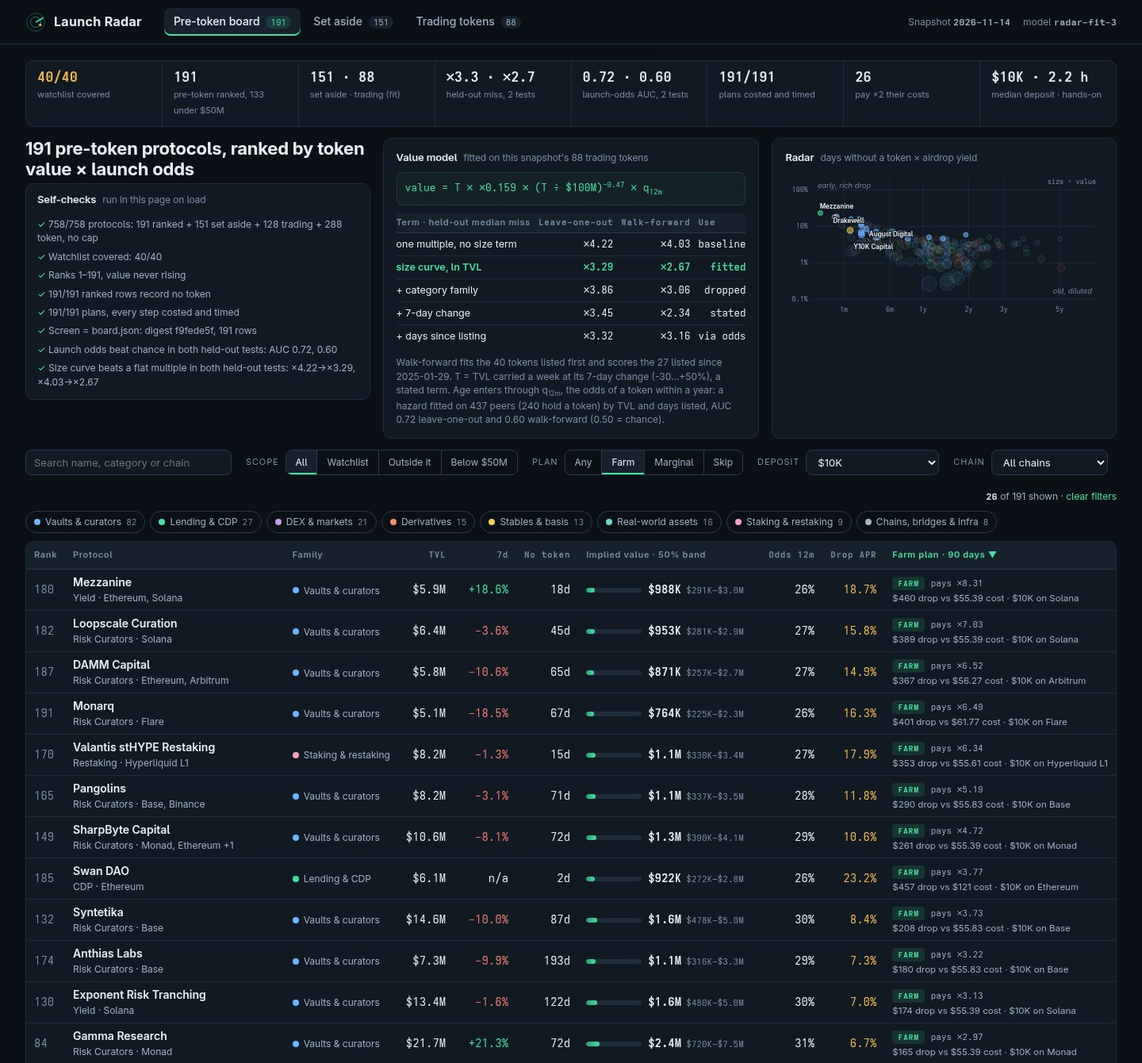
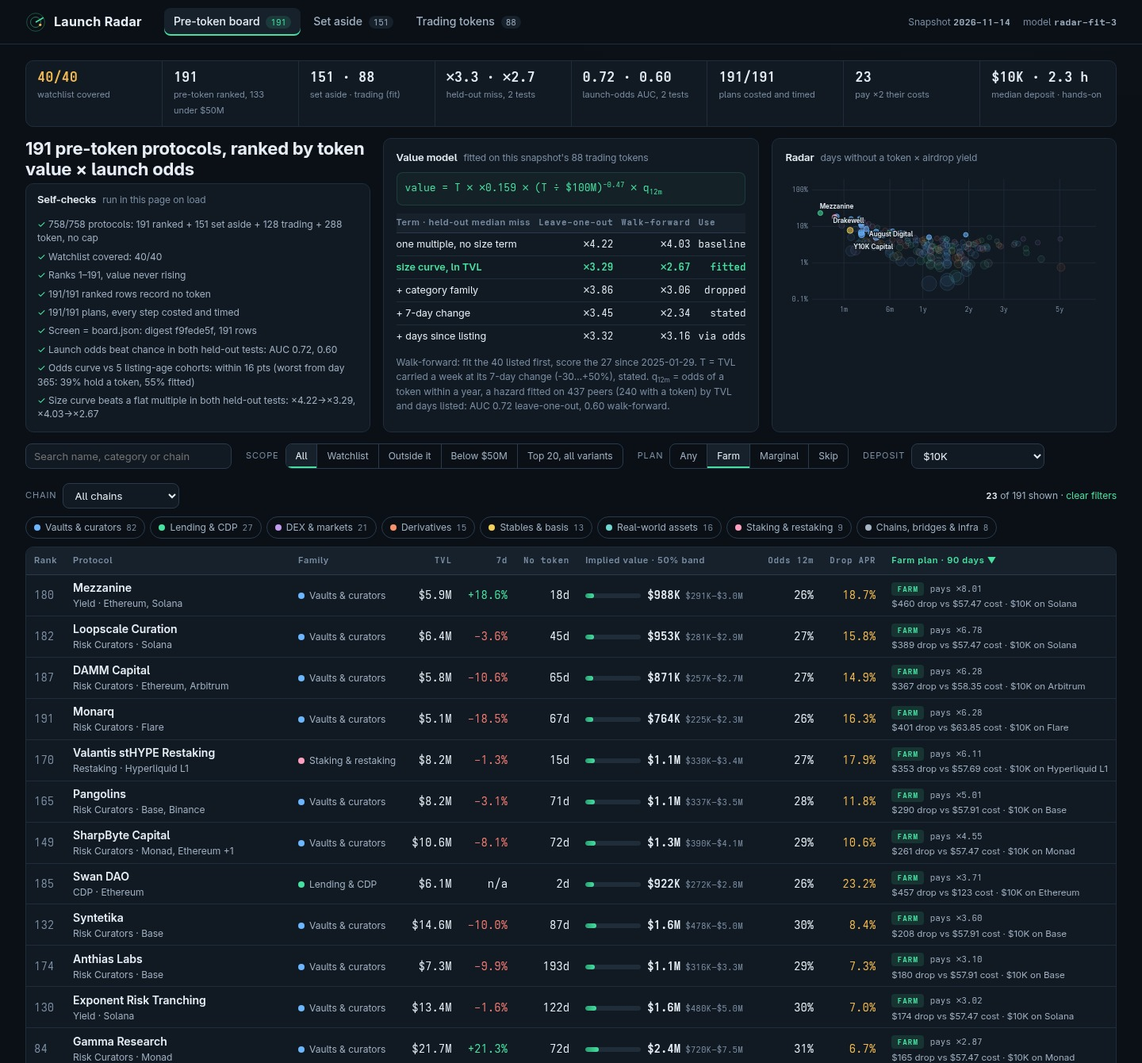
Cohort check of the launch-odds curve, rank crossing under three declared variants (and a top-20-in-all filter), 5%/20% drop-share scenarios in every decision step, round-trip unwind per farm type; tables.json written by hand; source compacted

diff --git a/dashboard/app.js b/dashboard/app.js
@@ -1,13 +1,11 @@
-/* Launch Radar. Guide for a reader of this source (dossier order: app.js, index.html, model.js, style.css):
- *   model.js calibrate(), termTests()  value curve fitted on the snapshot's trading tokens; every term tested
- *                         held-out twice (leave-one-out, walk-forward); the band from held-out misses
- *   model.js value()      implied value of one pre-token protocol, every factor kept for the detail view
- *   model.js productOf()  the watchlist rule that sets wrapped, bridged, staked and exchange products aside
- *   model.js farmPlan()   decision step plus six costed, timed steps; deposit sized to cover costs x2
+/* Launch Radar. Guide to this source (dossier order: app.js, index.html, model.js, style.css):
+ *   model.js calibrate(), termTests()  value curve fitted on the trading tokens; each term tested held-out twice
+ *   model.js launchOdds()  12-month launch odds: a hazard fitted on peers by TVL and age, AUC and cohort checks
+ *   model.js value()       value if launched x launch odds, every factor kept for the detail view
+ *   model.js productOf()   the watchlist rule that sets wrapped, bridged, staked and exchange products aside
+ *   model.js farmPlan()    decision step, six costed and timed steps, deposit sized or set by the reader
  *   model.js build(), boardRows(), digest()  what main.ts writes to board.json; the page recomputes it
- *   app.js CHECKS, board(), detail(), aside(), trading(), filtered()  cover checks, views, sort, filters */
-/* The page reads data.js, runs RadarModel.build (model.js) and draws three views. State lives in the URL
- * hash (view, q, fam, chain, scope, verdict, sort, dir, p), so every view can be linked. */
+ *   app.js CHECKS, board(), detail(), aside(), trading()  cover checks and views; state in the URL hash */
 (function () {
   'use strict';
   const R = window.RadarModel, S = window.SNAPSHOT, app = document.getElementById('app');
@@ -25,7 +23,6 @@
   const verdictTag = (v) => `<span class="verdict v-${v}">${v}</span>`;
   const maxImplied = rows[0].v.implied;
 
-  /* ---------- state in the hash ---------- */
   const DEF = { view: 'board', q: '', fam: '', chain: '', scope: 'all', verdict: '', sort: 'rank', dir: 'asc', p: '', dep: '' };
   function readHash() {
     const st = Object.assign({}, DEF);
@@ -35,7 +32,7 @@
       if (i > 0 && own(DEF, k)) try { st[k] = decodeURIComponent(kv.slice(i + 1)); } catch (e) { /* keep the default */ }
     });
     // Unknown values fall back to the defaults, so a hand-typed link never breaks the page.
-    const ok = { view: 'board aside trading', scope: 'all watch early outside', verdict: ' farm marginal skip', dir: 'asc desc', dep: ' 1000 5000 10000 25000' };
+    const ok = { view: 'board aside trading', scope: 'all watch early outside stable', verdict: ' farm marginal skip', dir: 'asc desc', dep: ' 1000 5000 10000 25000' };
     Object.keys(ok).forEach((k) => { if (!ok[k].split(' ').includes(st[k])) st[k] = DEF[k]; });
     if (!own(KEYS, st.sort)) st.sort = 'rank';
     return st;
@@ -47,7 +44,6 @@
   }
   function go(patch) { location.hash = link(patch); }
 
-  /* ---------- filtering and sorting ---------- */
   const KEYS = {
     rank: (r) => r.rank, name: (r) => r.p.name.toLowerCase(), tvl: (r) => r.p.tvl_usd, g: (r) => r.p.change_7d,
     age: (r) => r.v.age_used, value: (r) => r.v.implied, odds: (r) => r.v.time_factor, apr: (r) => r.v.apr, plan: (r) => r.plan.drop / r.plan.all_in
@@ -58,14 +54,13 @@
       (!q || (r.p.name + ' ' + r.p.slug + ' ' + (r.p.category || '') + ' ' + r.p.chains.join(' ')).toLowerCase().includes(q)) &&
       (!fams.length || fams.includes(r.v.family)) &&
       (!st.chain || r.p.chains.includes(st.chain)) &&
-      (st.scope === 'all' || (st.scope === 'watch' ? r.watch : st.scope === 'outside' ? !r.watch : r.below)) &&
+      (st.scope === 'all' || (st.scope === 'watch' ? r.watch : st.scope === 'outside' ? !r.watch : st.scope === 'stable' ? r.stable : r.below)) &&
       (!st.verdict || r.plan.verdict === st.verdict));
     const key = KEYS[st.sort], sign = st.dir === 'desc' ? -1 : 1;
     // Missing figures (an unreported 7-day change) sort last in either direction.
     return out.sort((a, b) => { const x = key(a), y = key(b); if (x == null || y == null) return (x == null) - (y == null) || a.rank - b.rank; return (x < y ? -1 : x > y ? 1 : 0) * sign || a.rank - b.rank; });
   }
 
-  /* ---------- the radar chart: days without a token against airdrop yield ---------- */
   function chart(shown) {
     const W = 470, H = 214, L = 40, B = 26, T = 10, RR = 10;
     const on = new Set(shown.map((r) => r.p.slug));
@@ -97,11 +92,9 @@
       labels += `<text class="lab" x="${(spot[0] + 3).toFixed(1)}" y="${(spot[1] + 9).toFixed(1)}">${esc(r.p.name)}</text>`;
     });
     return `<svg viewBox="0 0 ${W} ${H}" class="radar">${g}
-      <text class="zone" x="${L + 8}" y="${T + 14}">early, rich drop</text><text class="zone" x="${W - RR - 6}" y="${H - B - 8}" text-anchor="end">old, diluted</text>${dots}${labels}
-      <text class="ax" x="${W - RR}" y="${T + 8}" text-anchor="end">size = value</text></svg>`;
+      ${dots}${labels}</svg>`;
   }
 
-  /* ---------- views ---------- */
   function head(st) {
     const n = (v) => (v === 'board' ? rows.length : v === 'aside' ? radar.products.length : fit.n);
     document.getElementById('tabs').innerHTML = [['board', 'Pre-token board'], ['aside', 'Set aside'], ['trading', 'Trading tokens']]
@@ -118,7 +111,7 @@
       <p class="eq">value = T × ${mult(fit.base)} × (T ÷ $100M)<sup>${fit.slope.toFixed(2)}</sup> × q<sub>12m</sub></p>
       <table class="mini tests"><thead><tr><th>Term · held-out median miss</th><th class="num">Leave-one-out</th><th class="num">Walk-forward</th><th class="num">Use</th></tr></thead><tbody>
       ${T.terms.map((t) => `<tr class="${t.ok ? 'pick' : ''}"><td>${t.label}</td><td class="num">${x(t.loo)}</td><td class="num">${x(t.wf)}</td><td class="num">${used[t.key]}</td></tr>`).join('')}</tbody></table>
-      <p class="note">Walk-forward fits the ${T.wf_train} tokens listed first and scores the ${T.wf_n} listed since ${T.wf_from}. T = TVL carried a week at its 7-day change (${M.growth_floor}…+${M.growth_cap}%), a stated term. Age enters through q<sub>12m</sub>, the odds of a token within a year: a hazard fitted on ${O.n} peers (${O.with_token} hold a token) by TVL and days listed, AUC ${O.auc_loo.toFixed(2)} leave-one-out and ${O.auc_wf.toFixed(2)} walk-forward (0.50 = chance).</p></div>`;
+      <p class="note">Walk-forward: fit the ${T.wf_train} listed first, score the ${T.wf_n} since ${T.wf_from}. T = TVL carried a week at its 7-day change (${M.growth_floor}…+${M.growth_cap}%), stated. q<sub>12m</sub> = odds of a token within a year, a hazard fitted on ${O.n} peers (${O.with_token} with a token) by TVL and days listed: AUC ${O.auc_loo.toFixed(2)} leave-one-out, ${O.auc_wf.toFixed(2)} walk-forward.</p></div>`;
   }
 
   // The cover's self-checks, computed here on every load: the gate's rules and the screen-to-board match.
@@ -133,6 +126,7 @@
     [bRows.every((b) => b.farm_steps.length >= 3 && b.farm_steps.length <= 12 && b.farm_steps.every((t) => / Cost: .+ Time: /.test(t))), `${bRows.length}/${bRows.length} plans, every step costed and timed`],
     [B.digest === dig && B.rows === rows.length, `Screen = board.json: digest ${dig}, ${B.rows || 0} rows`],
     [O.auc_loo > 0.5 && O.auc_wf > 0.5, `Launch odds beat chance in both held-out tests: AUC ${O.auc_loo.toFixed(2)}, ${O.auc_wf.toFixed(2)}`],
+    ((w) => [O.gap < 0.2, `Odds curve vs ${O.cohorts.length} listing-age cohorts: within ${Math.round(O.gap * 100)} pts (worst from day ${w.from}: ${pc(w.actual)} hold a token, ${pc(w.fitted)} fitted)`])(O.cohorts.reduce((a, c) => Math.abs(c.actual - c.fitted) > Math.abs(a.actual - a.fitted) ? c : a)),
     [sizeT.ok, `Size curve beats a flat multiple in both held-out tests: ×${flatT.loo.toFixed(2)}→×${sizeT.loo.toFixed(2)}, ×${flatT.wf.toFixed(2)}→×${sizeT.wf.toFixed(2)}`]
   ];
 
@@ -187,7 +181,7 @@
     </section>
     <section class="filters">
       <label class="search"><input id="q" type="search" value="${esc(st.q)}" placeholder="Search name, category or chain" autocomplete="off" aria-label="Search"></label>
-      <div class="field"><span>Scope</span>${seg('scope', [['all', 'All'], ['watch', 'Watchlist'], ['outside', 'Outside it'], ['early', 'Below $50M']])}</div>
+      <div class="field"><span>Scope</span>${seg('scope', [['all', 'All'], ['watch', 'Watchlist'], ['outside', 'Outside it'], ['early', 'Below $50M'], ['stable', 'Top 20, all variants']])}</div>
       <div class="field"><span>Plan</span>${seg('verdict', [['', 'Any'], ['farm', 'Farm'], ['marginal', 'Marginal'], ['skip', 'Skip']])}</div>
       <label class="field"><span>Deposit</span><select id="dep">${['', 1000, 5000, 10000, 25000].map((d) => `<option value="${d}"${String(d) === st.dep ? ' selected' : ''}>${d ? usd(d) : 'Auto: least that pays'}</option>`).join('')}</select></label>
       <label class="field"><span>Chain</span><select id="chain"><option value="">All chains</option>${Object.keys(chains).sort((a, b) => chains[b] - chains[a] || (a < b ? -1 : 1)).map((c) => `<option${c === st.chain ? ' selected' : ''}>${esc(c)}</option>`).join('')}</select></label>
@@ -214,7 +208,7 @@
       <div><h1>${esc(p.name)}</h1>
         <p class="tags">${famChip(v.family)}<span class="tag">${esc(p.category || 'Uncategorised')}</span><span class="tag pre">No token on record</span>${r.watch ? '<span class="tag wlt">On the watchlist</span>' : '<span class="tag">Outside the watchlist</span>'}</p>
         <p class="sub">${esc(p.chains.join(' · '))}${p.listed_at ? ` — tracked since ${esc(p.listed_at)}` : ' — no listing date on record'}</p></div>
-      <div class="dval"><small>Implied token value</small><b>${usd(v.implied)}</b><small>50% band ${usd(v.low)} – ${usd(v.high)} · ${mult(v.multiple)} TVL</small></div>
+      <div class="dval"><small>Implied token value</small><b>${usd(v.implied)}</b><small>50% band ${usd(v.low)} – ${usd(v.high)} · ${mult(v.multiple)} TVL</small><small>Rank #${r.rank}; ${Object.keys(r.alt).map((k) => `#${r.alt[k]} ${k}`).join(' · ')}</small></div>
     </section>
     <div class="dgrid">
       <div class="col">
@@ -236,8 +230,8 @@
           <p class="note">Shaded: the 50% band, ×${fit.band_low.toFixed(2)}–×${fit.band_high.toFixed(2)}, the middle half of held-out misses. Ticks: the peers' market caps below. A model's claim, not a price.</p>
         </section>
         <section class="card"><h2>Nearest trading peers <span>${esc(fam.label)}, closest TVL</span></h2>
-          <table class="mini"><thead><tr><th>Protocol</th><th class="num">TVL</th><th class="num">Market cap</th><th class="num">÷ TVL</th><th class="num">Model fit</th></tr></thead><tbody>
-          ${peers.map((x) => `<tr><td>${esc(x.p.name)} <small>${esc(x.p.symbol || '')}</small></td><td class="num">${usd(x.tvl)}</td><td class="num">${usd(x.actual)}</td><td class="num">${mult(x.actual / x.tvl)}</td><td class="num">${usd(x.fit)}</td></tr>`).join('') || '<tr><td colspan="5">No trading peer in this family.</td></tr>'}
+          <table class="mini"><thead><tr><th>Protocol</th><th class="num">TVL</th><th class="num">Market cap</th><th class="num">÷ TVL</th></tr></thead><tbody>
+          ${peers.map((x) => `<tr><td>${esc(x.p.name)} <small>${esc(x.p.symbol || '')}</small></td><td class="num">${usd(x.tvl)}</td><td class="num">${usd(x.actual)}</td><td class="num">${mult(x.actual / x.tvl)}</td></tr>`).join('') || '<tr><td colspan="4">No trading peer in this family.</td></tr>'}
           </tbody></table></section>
       </div>
       <section class="card planc"><h2>Farm plan <span>${pl.days} days on ${esc(pl.chain)}</span></h2>
@@ -252,7 +246,7 @@
         <ol class="steps">${pl.steps.map((s) => `<li><p><em>${esc(s.when)}</em>${esc(s.act)}.</p><span class="cost">${usd(s.usd)}</span><span class="time">${R.mins(s.min)}</span></li>`).join('')}</ol>
         <div class="math">
           <p><b>Drop APR ${(v.apr * 100).toFixed(2)}% if it launches</b> = ${usd(v.fitted)} × ${M.drop_share * 100}% to depositors ÷ (${usd(v.tvl_next)} TVL × (${Math.min(v.age_used, M.season_days)} + ${M.farm_days}) season days) × 365.</p>
-          <p>${usd(pl.eligible)} of the ${usd(pl.stake)} sits in ${esc(p.name)} and earns; for ${pl.days} days that is about <b>${usd(pl.drop)}</b> against <b>${usd(pl.all_in)}</b> all-in (${usd(pl.cost)} gas and fees + ${R.mins(pl.minutes)} at $${M.hour_usd}/h): net <b class="${pl.net >= 0 ? 'up' : 'down'}">${pl.net >= 0 ? '+' : '−'}${usd(Math.abs(pl.net))}</b>. Capital: ${st.dep ? 'your deposit' : `the least that covers costs ×${M.target_cover} ($500–$25K${pl.drop < M.target_cover * pl.all_in ? ', capped' : ''})`}; a ${M.drop_share * 50}% drop halves it.</p>
+          <p>${usd(pl.eligible)} earning for ${pl.days} days: <b>${usd(pl.drop)}</b> vs <b>${usd(pl.all_in)}</b> all-in (${usd(pl.cost)} fees + ${R.mins(pl.minutes)} at $${M.hour_usd}/h), net <b class="${pl.net >= 0 ? 'up' : 'down'}">${pl.net >= 0 ? '+' : '−'}${usd(Math.abs(pl.net))}</b>. Capital: ${st.dep ? 'your deposit' : `least that pays ×${M.target_cover} ($500–$25K)`}.</p>
         </div>
       </section>
     </div>`;
@@ -266,14 +260,13 @@
   }
 
   function trading() {
-    const body = radar.live.map((l) => { const e = l.loo / l.actual; return `<tr><td class="proto"><span class="nm">${esc(l.p.name)}</span><small>${esc(l.p.symbol || '')} · ${esc(l.p.category || '')}</small></td><td>${famChip(l.family)}</td><td class="num">${usd(l.tvl)}${l.members > 1 ? ` <small>${l.members} parts</small>` : ''}</td><td class="num">${usd(l.actual)}</td><td class="num">${mult(l.actual / l.tvl)}</td><td class="num">${usd(l.loo)}</td><td class="num ${e > 2 || e < 0.5 ? 'down' : 'up'}">${mult(e)}</td></tr>`; }).join('');
+    const body = radar.live.map((l) => { const e = l.loo / l.actual; return `<tr><td class="proto"><span class="nm">${esc(l.p.name)}</span><small>${esc(l.p.symbol || '')} · ${esc(l.p.category || '')}</small></td><td class="num">${usd(l.tvl)}${l.members > 1 ? ` <small>${l.members} parts</small>` : ''}</td><td class="num">${usd(l.actual)}</td><td class="num">${mult(l.actual / l.tvl)}</td><td class="num">${usd(l.loo)}</td><td class="num ${e > 2 || e < 0.5 ? 'down' : 'up'}">${mult(e)}</td></tr>`; }).join('');
     return `<section class="intro"><h1>${fit.n} tokens that trade: the model's calibration set</h1>
       <p>Kept off the board: their market prices them. calibrate() pools TVL per token, leaves out exchanges and products, and fits ln(mcap ÷ TVL) on ln(TVL): value grows as TVL<sup>${fit.elasticity.toFixed(2)}</sup>. ${radar.listed_only} more record a token with no market cap.</p></section>
-      <div class="split"><div class="card"><h2>Held-out fit</h2><p class="note">Family pull k chosen from ${fit.trials.map((t) => t.k).join(', ')} by median miss (×${fit.trials[0].median.toFixed(2)} alone → ×${fit.median_error.toFixed(2)} chosen). Leave-one-out against real market caps: median miss ×${fit.median_error.toFixed(2)}; band ×${fit.band_low.toFixed(2)}–×${fit.band_high.toFixed(2)} holds ${fit.band_hits}/${fit.n}. ${fit.clipped} ratios clipped to ×${M.ratio_floor}–×${M.ratio_cap} in the fit only.</p></div>
-      <div class="tablewrap"><table class="board"><thead><tr><th>Protocol</th><th>Family</th><th class="num">TVL</th><th class="num">Market cap</th><th class="num">÷ TVL</th><th class="num">Fit without it</th><th class="num">÷ market</th></tr></thead><tbody>${body}</tbody></table></div></div>`;
+      <div class="split"><div class="card"><h2>Held-out fit</h2><p class="note">Family pull k picked by leave-one-out miss: ×${fit.trials[0].median.toFixed(2)} → ×${fit.median_error.toFixed(2)}. Band ×${fit.band_low.toFixed(2)}–×${fit.band_high.toFixed(2)} holds ${fit.band_hits}/${fit.n}; ${fit.clipped} ratios clipped in the fit only.</p></div>
+      <div class="tablewrap"><table class="board"><thead><tr><th>Protocol</th><th class="num">TVL</th><th class="num">Market cap</th><th class="num">÷ TVL</th><th class="num">Fit without it</th><th class="num">÷ market</th></tr></thead><tbody>${body}</tbody></table></div></div>`;
   }
 
-  /* ---------- render and events ---------- */
   let planDep = '';
   function render() {
     const st = readHash();
@@ -282,7 +275,7 @@
     // A deposit chosen by the reader re-plans every row at that amount (farmPlan's dep).
     if (st.dep !== planDep) { planDep = st.dep; rows.forEach((r) => { r.plan = R.farmPlan(r.p, r.v, +st.dep); }); }
     app.innerHTML = st.p ? detail(st) : st.view === 'aside' ? aside() : st.view === 'trading' ? trading() : board(st);
-    document.getElementById('foot').innerHTML = `Source: ${esc(S.source)}. Floor $${(S.floor_usd / 1e6).toFixed(0)}M. Implied values are this radar's estimate of a token's worth if the record stayed as it is: no launch forecast, never make.fun's claim. A protocol may hold a token DefiLlama does not record.`;
+    document.getElementById('foot').innerHTML = `Source: ${esc(S.source)}. Floor $${(S.floor_usd / 1e6).toFixed(0)}M. Implied value = the radar's own value if launched × its 12-month launch odds; never make.fun's claim. A protocol may hold a token DefiLlama does not record.`;
     if (st.p) window.scrollTo(0, 0);
     if (typing) { clearTimeout(typing); typing = null; }
   }

diff --git a/dashboard/model.js b/dashboard/model.js
@@ -101,11 +101,8 @@
       tests: termTests(pts, snap.as_of), odds: launchOdds(snap) };
   }
 
-  /* Launch odds from the snapshot's peers. F(p, a) = the fitted share of protocols holding a token at
-   * this TVL and a days since listing (logistic on ln TVL and ln age, over every protocol that is not an
-   * exchange or a product). A protocol still without one at age a issues one within odds_days with
-   * probability q = (F(a + odds_days) - F(a)) / (1 - F(a)): the hazard implied by the age curve. Tested
-   * by AUC (0.5 = chance) leave-one-out and walk-forward (fit the 60% listed first, score the rest). */
+  /* Launch odds. F(p, a) = fitted share of peers (not exchanges or products) holding a token at this TVL
+   * and age a (logistic on ln TVL, ln age); q = (F(a + odds_days) - F(a)) / (1 - F(a)), the hazard. */
   function launchOdds(snap) {
     var peers = snap.protocols.filter(function (p) { return p.tvl_usd > 0 && !productOf(p); });
     var known = peers.map(function (p) { return ageDays(snap.as_of, p.listed_at); }).filter(function (a) { return a != null; }).sort(function (a, b) { return a - b; });
@@ -131,9 +128,14 @@
     var dated = pts.filter(function (q) { return q.a != null; }).sort(function (u, v) { return v.a - u.a || bySlug(u.p, v.p); });
     var cut = Math.floor(dated.length * 0.6), ww = logit(dated.slice(0, cut));
     var wf = dated.slice(cut).map(function (q) { return { y: q.y, s: dot(ww, q.x) }; });
-    var w = logit(pts);
-    return { w: w, n: pts.length, with_token: pts.filter(function (q) { return q.y; }).length, auc_loo: auc(loo), auc_wf: auc(wf), wf_n: wf.length,
-      F: function (p, a) { return sig(dot(w, X(p, a))); } };
+    var w = logit(pts), F = function (p, a) { return sig(dot(w, X(p, a))); };
+    // Cohort check: each listing-age cohort's share holding a token against the curve's mean prediction.
+    var edges = [0, 180, 365, 730, 1095, 1e9], cohorts = edges.slice(0, 5).map(function (lo, c) {
+      var m = pts.filter(function (q) { return q.a != null && q.a >= lo && q.a < edges[c + 1]; }), n = m.length || 1;
+      return { from: lo, n: m.length, actual: m.reduce(function (t, q) { return t + q.y; }, 0) / n, fitted: m.reduce(function (t, q) { return t + F(q.p, q.a); }, 0) / n };
+    });
+    return { w: w, cohorts: cohorts, gap: Math.max.apply(null, cohorts.map(function (c) { return Math.abs(c.actual - c.fitted); })), n: pts.length, with_token: pts.filter(function (q) { return q.y; }).length, auc_loo: auc(loo), auc_wf: auc(wf), wf_n: wf.length,
+      F: F };
   }
   function sig(z) { return 1 / (1 + Math.exp(-z)); }
   function dot(w, x) { return w[0] * x[0] + w[1] * x[1] + w[2] * x[2]; }
@@ -232,7 +234,7 @@
     // Airdrop yield if it launches: drop_share of the value if launched, split over every dollar-day of
     // TVL in the current season (since listing, at most season_days) plus the plan's window.
     var apr = fitted * M.drop_share / (tvlNext * (Math.min(ageUsed, M.season_days) + M.farm_days)) * 365;
-    return { family: fam.key, growth: growth, growth_imputed: p.change_7d == null, age_imputed: age == null, tvl_next: Math.round(tvlNext), fam_multiple: fam.multiple, size_mult: sizeMult,
+    return { family: fam.key, growth: growth, growth_imputed: p.change_7d == null,tvl_next: Math.round(tvlNext), fam_multiple: fam.multiple, size_mult: sizeMult,
       fitted: Math.round(fitted), age: age, age_used: ageUsed, time_factor: timeF, f0: f0, f1: f1, implied: implied,
       low: Math.round(implied * fit.band_low), high: Math.round(implied * fit.band_high), cap_high: Math.round(fitted * fit.band_high), multiple: implied / p.tvl_usd, apr: apr };
   }
@@ -248,16 +250,9 @@
   function mins(m) { return m < 60 ? m + ' min' : (m / 60).toFixed(m % 60 ? 1 : 0) + ' h'; }
 
 
-  // What the second action costs: one-off ones two transactions, weekly ones every week of the window.
-  var WEEKLY = { dex: 1, deriv: 1, predict: 1, infra: 1 };
-  var ACT2 = {
-    dex: function (s, tx, w) { return w * (s * 0.0005 + tx); },
-    deriv: function (s, tx, w) { return w * (s * 0.001 + 2 * tx); },
-    predict: function (s, tx, w) { return w * (s * 0.01 + 2 * tx); },
-    infra: function (s, tx, w) { return w * 2 * tx; },
-    lend: function (s, tx) { return 2 * tx; }, vault: function (s, tx) { return 2 * tx; }, stable: function (s, tx) { return 2 * tx; },
-    rwa: function (s, tx) { return 2 * tx; }, stake: function (s, tx) { return 2 * tx; }
-  };
+  // The second action's cost: weekly kinds pay [fee share of the amount, transactions] every week of the
+  // window; every other kind pays two transactions once.
+  var WEEKLY = { dex: [0.0005, 1], deriv: [0.001, 2], predict: [0.01, 2], infra: [0, 2] };
 
   /* A farm plan from the row's own figures: steps with a dollar cost and a time each, on the cheapest of
    * its three main chains. */
@@ -274,9 +269,9 @@
         { act: 'Withdraw ' + usd(stake + side) + ' of ' + asset + ' from an exchange straight to a fresh wallet on ' + chain + (chain !== main[0] ? ' (cheaper than ' + main[0] + ', where it also runs)' : '') + '; keep only farm funds in it',
           usd: 1 + tx, min: 15, when: 'Day 0' },
         { act: fill(act[0]), usd: 2 * tx, min: v.family === 'rwa' ? 30 : 10, when: v.family === 'rwa' ? 'Days 0-2' : 'Day 0' },
-        { act: fill(act[1]), usd: ACT2[kind](side, tx, weeks), min: kind in WEEKLY ? weeks * 10 : 10, when: kind in WEEKLY ? 'Weeks 1-' + weeks : 'Day 1' },
+        { act: fill(act[1]), usd: WEEKLY[kind] ? weeks * (side * WEEKLY[kind][0] + WEEKLY[kind][1] * tx) : 2 * tx, min: kind in WEEKLY ? weeks * 10 : 10, when: kind in WEEKLY ? 'Weeks 1-' + weeks : 'Day 1' },
         { act: 'Once a week for ' + weeks + ' weeks, open the points or rewards page, re-check the position and top it up by one transaction', usd: weeks * tx, min: weeks * 5, when: 'Weeks 1-' + weeks },
-        { act: 'Exit if TVL falls below ' + usd(p.tvl_usd * 0.75) + ' (25% under today\'s ' + usd(p.tvl_usd) + ') or the team reports an incident; otherwise hold the full ' + M.farm_days + ' days', usd: 2 * tx, min: 10, when: 'Day ' + M.farm_days },
+        { act: 'Unwind: ' + act[2] + '; do it early if TVL falls below ' + usd(p.tvl_usd * 0.75) + ' (25% under today\'s ' + usd(p.tvl_usd) + ') or the team reports an incident', usd: 2 * tx, min: 15, when: 'Day ' + M.farm_days },
         { act: 'At launch claim only through the protocol\'s own app; the model prices it near ' + usd(v.fitted) + ' if launched, so sell the claim if the token opens above ' + usd(v.cap_high) + ' fully diluted (top of its 50% band)', usd: 2 * tx, min: 15, when: 'At launch' }
       ];
     }
@@ -295,7 +290,7 @@
     var needShare = M.drop_share * M.target_cover * t.all / Math.max(drop, 1e-9);
     st.unshift({ when: 'Before you start', usd: 0, min: 5, act: 'Decide: launch odds are ' + Math.round(v.time_factor * 100) + '% within a year; if it launches, at ' + usd(capital) + ' the modeled drop of ' + usd(drop) + ' covers the plan\'s ' + usd(t.all) +
       ' of gas, fees and time (5 min of it this check) ×' + (drop / t.all).toFixed(2) + '; it pays ×' + M.target_cover + ' if at least ' + (needShare * 100).toFixed(1) +
-      '% of the token goes to depositors (the model assumes ' + M.drop_share * 100 + '%), so ' + (verdict === 'farm' ? 'farm it, and re-check if the team announces a smaller user allocation' : verdict === 'skip' ? 'skip it unless the team announces a larger user allocation' : 'farm it only with funds already on ' + chain) });
+      '% of the token goes to depositors (the model assumes ' + M.drop_share * 100 + '%; at 5% it pays ×' + (drop / t.all / 2).toFixed(2) + ', at 20% ×' + (drop / t.all * 2).toFixed(2) + '), so ' + (verdict === 'farm' ? 'farm it, and re-check if the team announces a smaller user allocation' : verdict === 'skip' ? 'skip it unless the team announces a larger user allocation' : 'farm it only with funds already on ' + chain) });
     return { chain: chain, gas: tx, stake: capital, eligible: eligible(stake), asset: asset, steps: st, cost: t.cost, minutes: t.min, time_usd: t.min / 60 * M.hour_usd, all_in: t.all,
       days: M.farm_days, drop: drop, net: drop - t.all, need_share: needShare, verdict: verdict };
   }
@@ -322,6 +317,12 @@
     });
     rows.sort(function (a, b) { return b.v.implied - a.v.implied || bySlug(a.p, b.p); });
     rows.forEach(function (r, i) { r.rank = i + 1; });
+    // Rank crossing: each row's rank under three declared alternatives, and whether it stays top 20 in all.
+    var ALT = { 'without momentum': function (r) { return r.v.fitted * Math.pow(r.p.tvl_usd / r.v.tvl_next, 1 + fit.slope) * r.v.time_factor; },
+      'at 2-year odds': function (r) { return r.v.fitted * (fit.odds.F(r.p, r.v.age_used + 730) - r.v.f0) / (1 - r.v.f0); },
+      'if launched': function (r) { return r.v.fitted; } };
+    Object.keys(ALT).forEach(function (k) { rows.slice().sort(function (a, b) { return ALT[k](b) - ALT[k](a) || bySlug(a.p, b.p); }).forEach(function (r, i) { (r.alt = r.alt || {})[k] = i + 1; }); });
+    rows.forEach(function (r) { r.stable = r.rank <= 20 && Object.keys(r.alt).every(function (k) { return r.alt[k] <= 20; }); });
     var live = fit.points.map(function (q) { return { p: q.p, tvl: q.tvl, members: q.members, family: q.f, fit: q.fit, loo: Math.round(q.loo), actual: q.mcap }; })
       .sort(function (a, b) { return b.actual - a.actual || bySlug(a.p, b.p); });
     var listedOnly = snap.protocols.filter(function (p) { return hasToken(p) && !trades(p); }).length;

diff --git a/dashboard/style.css b/dashboard/style.css
@@ -16,7 +16,7 @@ h1,h2{margin:0;letter-spacing:-.01em;}
 small{display:block;color:var(--muted);font-size:12px;}
 sub,sup{font-size:.7em;}
 .num,.apr,.pkpis b,.rank,.rankbig b,.dval b,td.val b{font-family:var(--mono);font-variant-numeric:tabular-nums;}
-.top{display:flex;align-items:center;gap:28px;padding:0 32px;height:56px;border-bottom:var(--b1);background:#0b1016e6;position:sticky;top:0;z-index:5;backdrop-filter:blur(6px);}
+.top{display:flex;align-items:center;gap:28px;padding:0 32px;height:56px;border-bottom:var(--b1);background:#0b1016e6;position:sticky;top:0;z-index:5;}
 .brand{display:flex;align-items:center;gap:10px;color:var(--accent);font-weight:700;font-size:16px;letter-spacing:.02em;}
 .brand span{color:var(--text);}
 .tabs{display:flex;gap:4px;}
@@ -56,7 +56,6 @@ main{padding:20px 32px 24px;max-width:1440px;margin:0 auto;}
 .radar .grid{stroke:var(--line);stroke-width:1;}
 .radar .ax{fill:var(--dim);font:10px var(--mono);}
 .radar .lab{fill:var(--text);font:600 9.5px var(--sans);paint-order:stroke;stroke:var(--panel);stroke-width:3px;pointer-events:none;}
-.radar .zone{fill:var(--muted);font:italic 11px var(--sans);opacity:.7;}
 .dot{fill-opacity:.55;stroke-width:1;stroke-opacity:.9;}
 .dot.off{fill-opacity:.06;stroke-opacity:.18;pointer-events:none;}
 .mini tr.pick td{color:var(--accent);font-weight:600;}
@@ -136,7 +135,7 @@ td.proto{min-width:230px;}
 .scale{position:relative;height:22px;margin:12px 0 0;border-radius:4px;background:var(--panel2);}
 .scale .band{position:absolute;top:0;bottom:0;background:#46e0a026;border-left:1px solid #46e0a066;border-right:1px solid #46e0a066;}
 .scale .peer{position:absolute;top:4px;bottom:4px;width:2px;background:var(--muted);border-radius:1px;}
-.scale .mid{position:absolute;top:-3px;bottom:-3px;width:3px;background:var(--accent);border-radius:2px;box-shadow:0 0 8px var(--accent);}
+.scale .mid{position:absolute;top:-3px;bottom:-3px;width:3px;background:var(--accent);border-radius:2px;}
 .mini th{font-size:11px;color:var(--dim);text-align:left;font-weight:600;padding:4px 0;border-bottom:var(--b2);}
 .mini td{padding:5px 0;border-bottom:var(--b1);font-size:12.5px;}
 .mini td small{display:inline;color:var(--dim);font-family:var(--mono);font-size:11px;}
